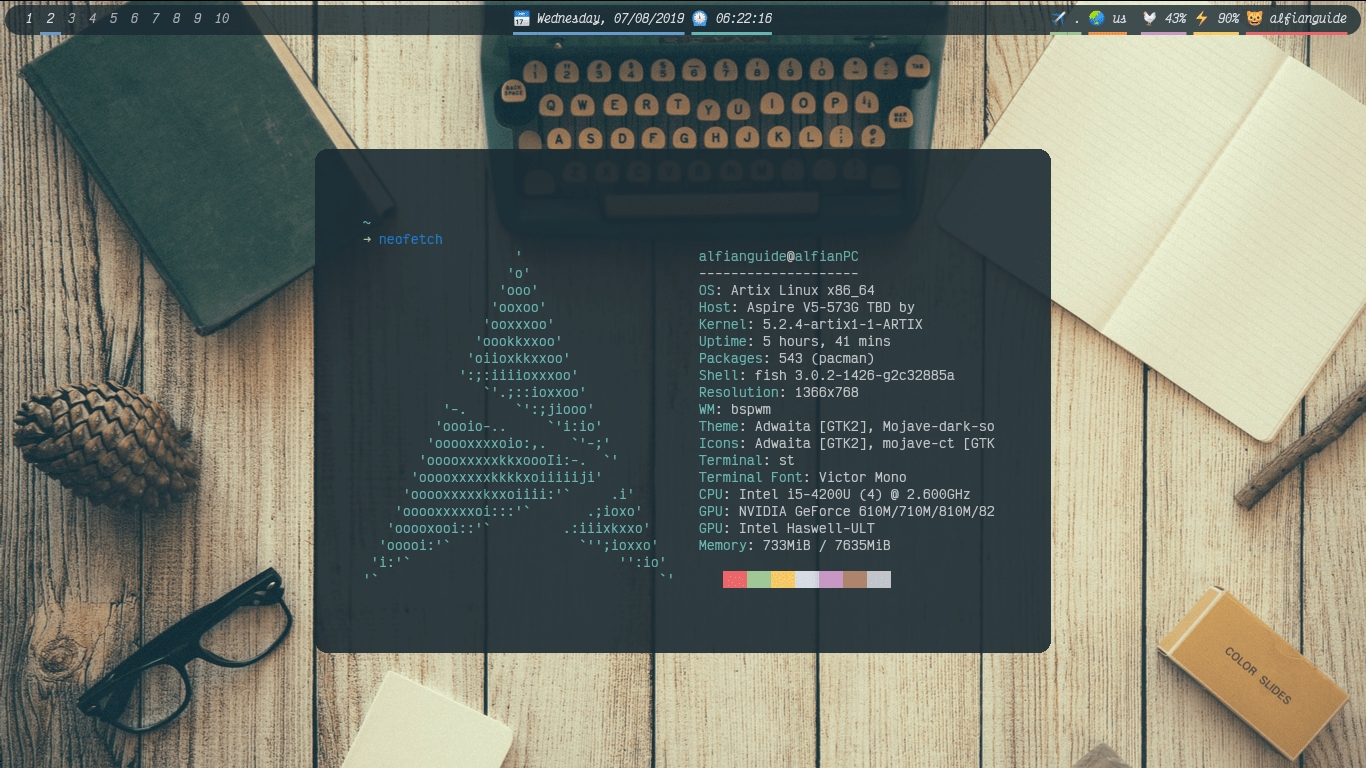
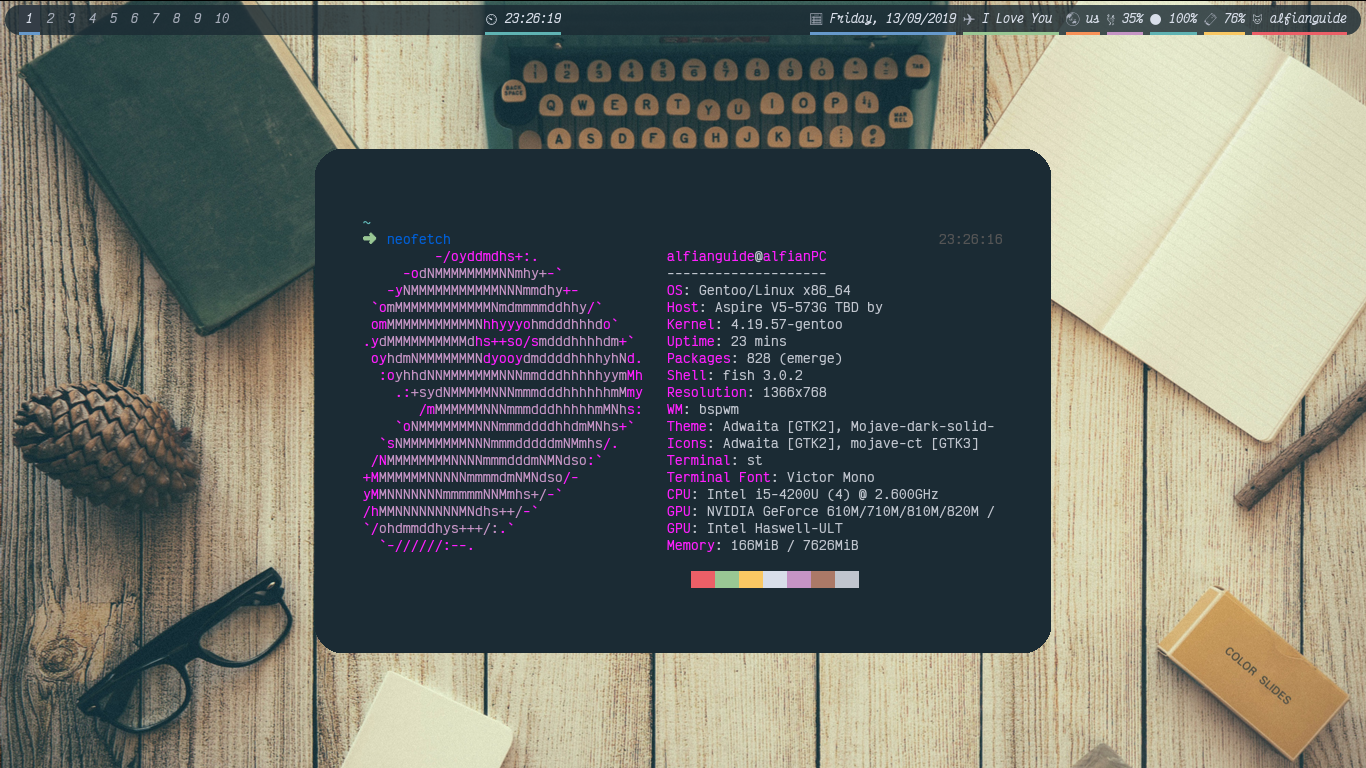
fix alsa sound gentoo and vimrc plugin

diff --git a/README.md b/README.md
@@ -1,7 +1,5 @@
 # dotFiles
 
-My collections of dotFiles
-
 [![License](https://img.shields.io/github/license/alfianguide/dotFiles.svg?style=flat-square)](LICENSE)
 
 ## Usage
@@ -46,11 +44,11 @@ Or, I know you were advance, perhaps you wanna peek into my .vimrc heheh.
 
 Desktop
 
-![Vim](desktop.png "Vim Plugin")
+![Desktop](desktop.png "Desktop look")
 
 Vim
 
-Under Construction
+![Vim](vim.png "Vim Plugin")
 
 The Rest?
 
